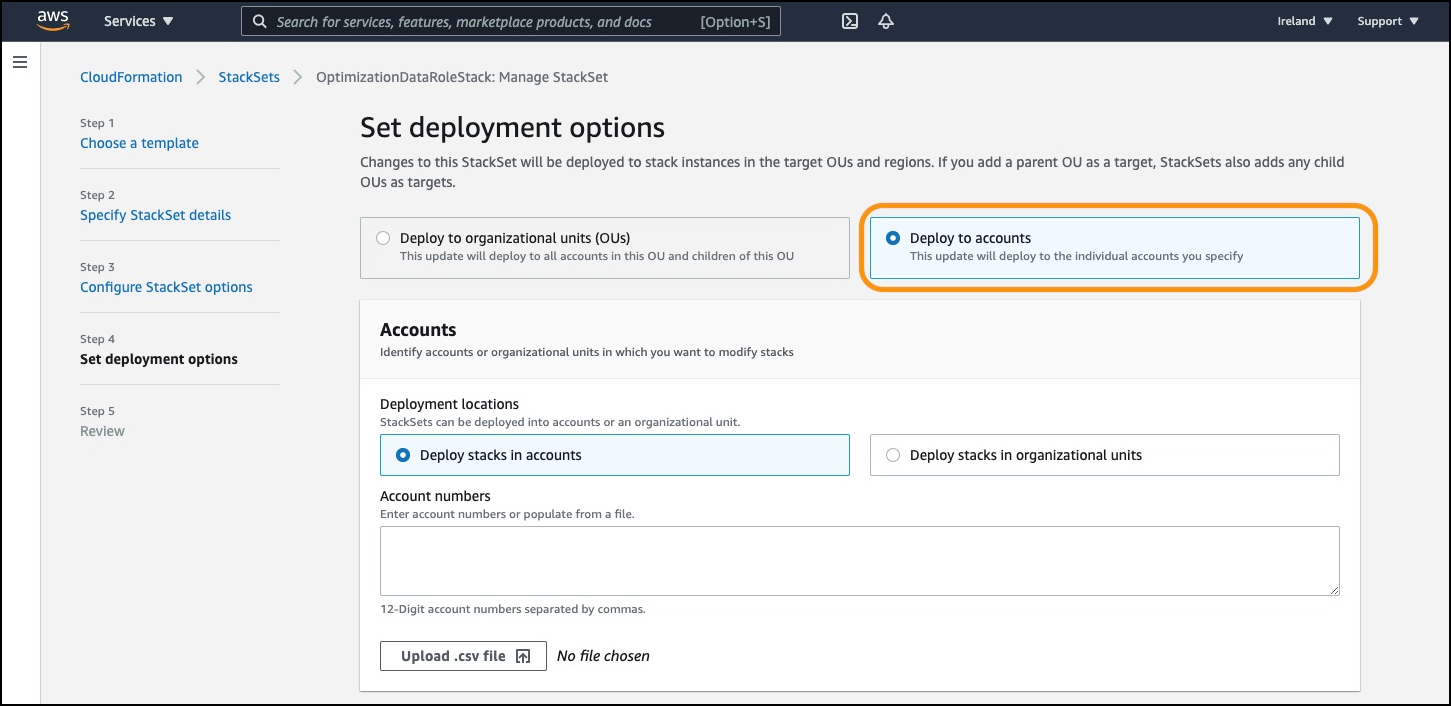
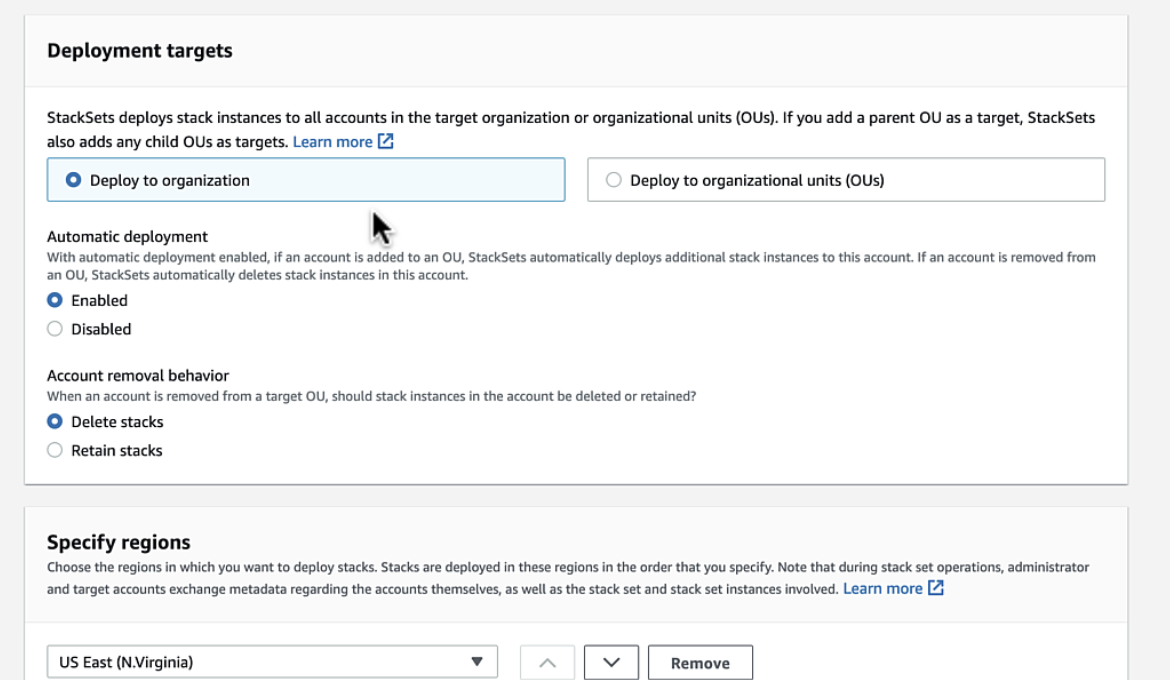
update doc for Optimization_Data_Collection

Changed region(s): [[0.0, 0.0, 1.0, 1.0], [0.2462, 0.4632, 0.5538, 0.525], [0.8923, 0.6485, 0.9231, 0.6794]]

diff --git a/content/Cost/300_Labs/300_Optimization_Data_Collection/1_Grant_permissions.md b/content/Cost/300_Labs/300_Optimization_Data_Collection/1_Grant_permissions.md
@@ -20,12 +20,11 @@ Some of the data needed for the modules is in the **Management account** we will
 
 2. Call the Stack **OptimizationManagementDataRoleStack**
 
-3. In the Parameters section use the Cost Optimization Account ID that you deployed the OptimizationDataCollectionStack into for **CostAccountID** 
+3. In the Parameters section set **CostAccountID** as the ID of Cost Optimization Data Collection Accoint ( where you plan to deploy the OptimizationDataCollectionStack)  
 
 4. Scroll to the bottom and click **Next**
 
-5. Tick the box **'I acknowledge that AWS CloudFormation might create IAM resources with custom names.'** and click **Create stack**.
-![Images/Tick_Box.png](/Cost/300_Optimization_Data_Collection/Images/Tick_Box.png)
+5. Tick the acknowledge boxes and click **Create stack**.
 
 6. You can see the role that was collected by clicking on **Resources** and clicking on the hyperlink under **Physical ID**.
 ![Images/Managment_CF_deployed.png](/Cost/300_Optimization_Data_Collection/Images/Managment_CF_deployed.png)
@@ -34,11 +33,11 @@ Some of the data needed for the modules is in the **Management account** we will
 
 ### 2/2 Read Only roles for Data Collector modules
 
-Modules deployed in **OptimizationDataCollectionStack** (previous step) allow to collect data from all of the accounts in an AWS Organization we will use a CloudFormation StackSet to deploy a single read only role to all accounts. 
+Modules that we will deploy later **OptimizationDataCollectionStack** allow to collect data from all of the accounts in an AWS Organization. We will use a CloudFormation StackSet to deploy a single read only role to all accounts. 
 
-1. **Download CloudFormation** by clicking [here.](/Cost/300_Optimization_Data_Collection/Code/optimisation_read_only_role.yaml) This will be the foundation of the rest of the lab and we will add to this to build out the modules so please **store somewhere safely** as there is not designer in StackSets. 
+1. **Download CloudFormation** by clicking [here.](https://aws-well-architected-labs.s3-us-west-2.amazonaws.com/Cost/Labs/300_Optimization_Data_Collection/optimisation_read_only_role.yaml) This will be the foundation of the rest of the lab and we will add to this to build out the modules so please **store somewhere safely** as there is not designer in StackSets.
 
-2. Login via SSO in your Management account and search for **Cloud Formation**
+2. Login to your Management account and search for **Cloud Formation**
 ![Images/cloudformation.png](/Cost/300_Organization_Data_CUR_Connection/Images/cloudformation.png)
 
 3. Click on the hamburger icon on the side panel on the left hand side of the screen and select **StackSets**. If you have not enabled this Click the button **Enable trusted access**. 
@@ -48,7 +47,7 @@ Modules deployed in **OptimizationDataCollectionStack** (previous step) allow to
 
 5. Choose **Template is ready** and **Upload a template file** and upload the optimisation_read_only_role.yaml file you downloaded from above. Click **Next**.
 
-6. Call the Stack **OptimizationDataRoleStack**. In the Parameters section use the Cost Optimization Account ID that you deployed the OptimizationDataCollectionStack into for **CostAccountID**. Under available modules section select modules which you you selected in **OptimizationDataCollectionStack** deployment step. This CloudFormation StackSet will provision required roles for modules in linked accounts. Detailed description of each module can be found [here](../3_data_collection_modules)
+6. Call the Stack **OptimizationDataRoleStack**. In the Parameters section for **CostAccountID** use the  Account ID that where you will deploy the OptimizationDataCollectionStack. Under available modules section select modules that you need. This CloudFormation StackSet will provision required roles for modules in linked accounts. Detailed description of each module can be found [here](../3_data_collection_modules)
 
 ![Images/SS_param.png](/Cost/300_Optimization_Data_Collection/Images/SS_param.png)
 
@@ -56,18 +55,11 @@ Modules deployed in **OptimizationDataCollectionStack** (previous step) allow to
 
 ![Images/SS_permission.png](/Cost/300_Optimization_Data_Collection/Images/SS_permission.png)
 
-8. Select **Deploy to accounts** into then scroll down and Click **Next**.
+8. Select **Deploy to organization** and choose the **region** you are currently deploying to.
 
 ![Images/SS_account.png](/Cost/300_Optimization_Data_Collection/Images/SS_account.png)
 
-{{%expand "If your console does not look the same as above open here" %}}
-8. Select **Deploy to organization** and choose the **region** you are currently deploying too
-
-![Images/SS-Org.png](/Cost/300_Optimization_Data_Collection/Images/SS-Org.png)
-
-{{% /expand%}}
-
-9. Tick the box **'I acknowledge that AWS CloudFormation might create IAM resources with custom names.'** and click **Create stack**.
+9. Tick the boxes and click **Create stack**.
 ![Images/Tick_Box.png](/Cost/300_Optimization_Data_Collection/Images/Tick_Box.png)
 
 10. This role will now be deployed to all linked accounts. If you wish to also access data in your management account, deploy the same CloudFormation stack as a normal stack in your management account as you did in the **Role for Management Account** step above. 

diff --git a/content/Cost/300_Labs/300_Optimization_Data_Collection/_index.md b/content/Cost/300_Labs/300_Optimization_Data_Collection/_index.md
@@ -34,12 +34,12 @@ The main sources of the data used in optional modules:
 * **AWS Organization Module** exports data about [AWS Organizations](https://aws.amazon.com/organizations/)
 * **AWS Budgets Module** uses [AWS Budgets Export](https://aws.amazon.com/aws-cost-management/aws-budgets/)
 
-Modules can be installed in any combination and can be added post install using update of the CloudFormation stack. 
+Modules can be installed in any combination and can be added post install using update of the CloudFormation stack. Detailed description of each module can be found [here](../3_data_collection_modules).
 
 ## Architecture 
 Resources for this lab deployed with AWS CloudFormation:
-1. **Optimization Data Collection** Stack deploys core resources for the lab and allows to choose which [data collection modules](../300_optimization_data_collection/3_data_collection_modules) to deploy. Each data collection module is optional. We recommend to deploy this stack in separate optimization data collection AWS account. 
-1. **Optimization Management Data Role** Stack deploys AWS IAM Role for AWS Lambda which allows read-only access to retrieve linked accounts information from AWS Organizations. This stack should be deployed in management AWS account
+1. **Optimization Data Collection** Stack deploys core resources for the lab and allows to choose which [data collection modules](../300_optimization_data_collection/3_data_collection_modules) to deploy. Each data collection module is optional. We recommend to deploy this stack in separate optimization data collection AWS account in order to limit number of assets in the Management account. 
+1. **Optimization Management Data Role** Stack deploys AWS IAM Role for AWS Lambda which allows read-only access to retrieve linked accounts information from AWS Organizations. This stack should be deployed in **Management AWS account** (some time also referenced as Governance, Master or Payer account).
 1. **Optimization Data Collection** StackSet deploys IAM role required for AWS Lambda to get optimization data for each module. StackSet should be deployed from either organization's management account or a delegated administrator account to all linked accounts in organization. 
 
 ![Images/Arc.png](/Cost/300_Optimization_Data_Collection/Images/Arc.png)
@@ -73,12 +73,11 @@ It is possible to deploy **Optimization Data Collection** Stack to organization'
 
 ## Prerequisites
 - Access to the Management AWS Account of the AWS Organization to deploy Cloudformation
-- Inventory, ECS Chargeback and Trusted Advisor Modules of this Lab require lambda code that only available in a limited number of regions (eu-west-1,us-west-2,us-east-2,us-east-1,us-west-1,us-west2,ap-southeast-1,eu-central-1,eu-west-2,eu-north-1,ap-southeast-2). Please make sure you choose to use these regions to install the Data Collection stack. 
-- Trusted Advisor Modules will require a Business, Enterprise On-Ramp, or Enterprise Support plan.
 - Access to a sub account within the Organization - referred to as **Cost Optimization Account**
 - Completed the [Account Setup Lab]({{< ref "/Cost/100_Labs/100_1_AWS_Account_Setup" >}})
-- Completed the [Cost and Usage Analysis lab]({{< ref "/Cost/200_Labs/200_4_Cost_and_Usage_Analysis" >}})
-- Completed the [Cost Visualization Lab]({{< ref "/Cost/200_Labs/200_5_Cost_Visualization" >}}) 
+- Inventory, ECS Chargeback and Trusted Advisor Modules of this Lab require lambda code that only available in a limited number of regions (eu-west-1,us-west-2,us-east-2,us-east-1,us-west-1,us-west2,ap-southeast-1,eu-central-1,eu-west-2,eu-north-1,ap-southeast-2). Please make sure you choose to use these regions to install the Data Collection stack. 
+- Trusted Advisor Modules will require a Business, Enterprise On-Ramp, or Enterprise Support plan.
+
 
 ## Deployment Options
 We suggest you do not deploy the main resources and collectors into your management account and instead use the cost account created in [Account Setup Lab]({{< ref "/Cost/100_Labs/100_1_AWS_Account_Setup" >}}). However, Some IAM resources will be needed to read data from the management account. 
@@ -96,6 +95,7 @@ Be able to create the below in a sub account where your CUR data is accessible:
 - Amazon CloudWatch trigger
 - Amazon Athena Table
 - AWS Glue Crawler
+- Enroll into Compute Optimization
 
 
 ## Costs

diff --git a/content/Cost/300_Labs/300_Optimization_Data_Collection/2_Deploy_Main_Resources.md b/content/Cost/300_Labs/300_Optimization_Data_Collection/2_Deploy_Main_Resources.md
@@ -6,7 +6,7 @@ weight: 2
 pre: "<b>1. </b>"
 ---
 
-### Create Reusable Resource
+### Create Main Resources
 
 The first step is to create a set of reusable resources and respective data collection modules. 
 
@@ -23,16 +23,26 @@ For the CodeBucket Parameter, if deploying in Oregon leave as CodeBucket: aws-we
 ![Images/upload_templates3.png](/Cost/300_Optimization_Data_Collection/Images/upload_templates3.png)
 
 3. Call the stack **OptimizationDataCollectionStack** and fill Deployment parameters. The Role mentioned in **Multi Account Role Name** parameter will be deployed in the next step.
- Select the **Code bucket** for the region you are deploying in and fill **Management account Id**. You have the option to change the name of your access roles, if you do please make the same changes in the **Role for Management Account** and the  **Read Only roles for Data Collector** deployments.
+ Select the **Code bucket** for the region you are deploying in and fill **Management Account Id**. You have the option to change the name of your access roles, if you do please make the same changes in the **Role for Management Account** and the  **Read Only roles for Data Collector** deployments.
  
  Under available modules section select modules which you would like to deploy. Detailed description of each module can be found [here](../3_data_collection_modules)
  Click **Next** and **Next again**
 ![Images/Main_CF_Parameters.png](/Cost/300_Optimization_Data_Collection/Images/Main_CF_Parameters.png)
 
-4. Tick the box **'I acknowledge that AWS CloudFormation might create IAM resources with custom names.'** and click **Create stack**.
+When selecting Compute Optimizer module provide additionally a comma separted list of regions where need to collect Compute Optimizer data. Make sure you have a right to deploy S3 buckets in these regions.
+
+4. Tick the boxes and click **Create stack**.
 ![Images/Tick_Box.png](/Cost/300_Optimization_Data_Collection/Images/Tick_Box.png)
 
 5. Wait until your CloudFormation has a status of **CREATE_COMPLETE**.
 ![Images/Main_CF_Deployed.png](/Cost/300_Optimization_Data_Collection/Images/Main_CF_Deployed.png)
+
+{{%expand "Troubleshooting" %}}
+
+### Troubleshooting
+
+If you see the an issue with stack creation please check the status of nested stacks, including StackSets created by Compute Optimizer module. In case of rollback these StackSets will disappear. 
+
+{{% /expand%}}
 
 {{< prev_next_button link_prev_url="../1_grant_permissions/" link_next_url="../3_data_collection_modules" />}}

diff --git a/content/Cost/300_Labs/300_Optimization_Data_Collection/6_teardown.md b/content/Cost/300_Labs/300_Optimization_Data_Collection/6_teardown.md
@@ -12,6 +12,8 @@ The following resources were created in this lab:
 - CloudFormation stack in the Management account - OptimizationManagementDataRoleStack
 - CloudFormation stackset in the Management account - OptimizationDataRoleStack
 
+Before deleting Stacks and StackSet please make sure all related buckets are empty.
+
 When deleting the OptimizationDataRoleStack stackset, if you deployed to all accounts in your organization then add your AWS Organization id where it asks for **AWS OU ID**. Please make sure you empty s3 buckets before deletion of OptimizationDataCollectionStack. 
 
 {{< prev_next_button link_prev_url="../5_utilize_data/"  title="Congratulations!" final_step="true" >}}
